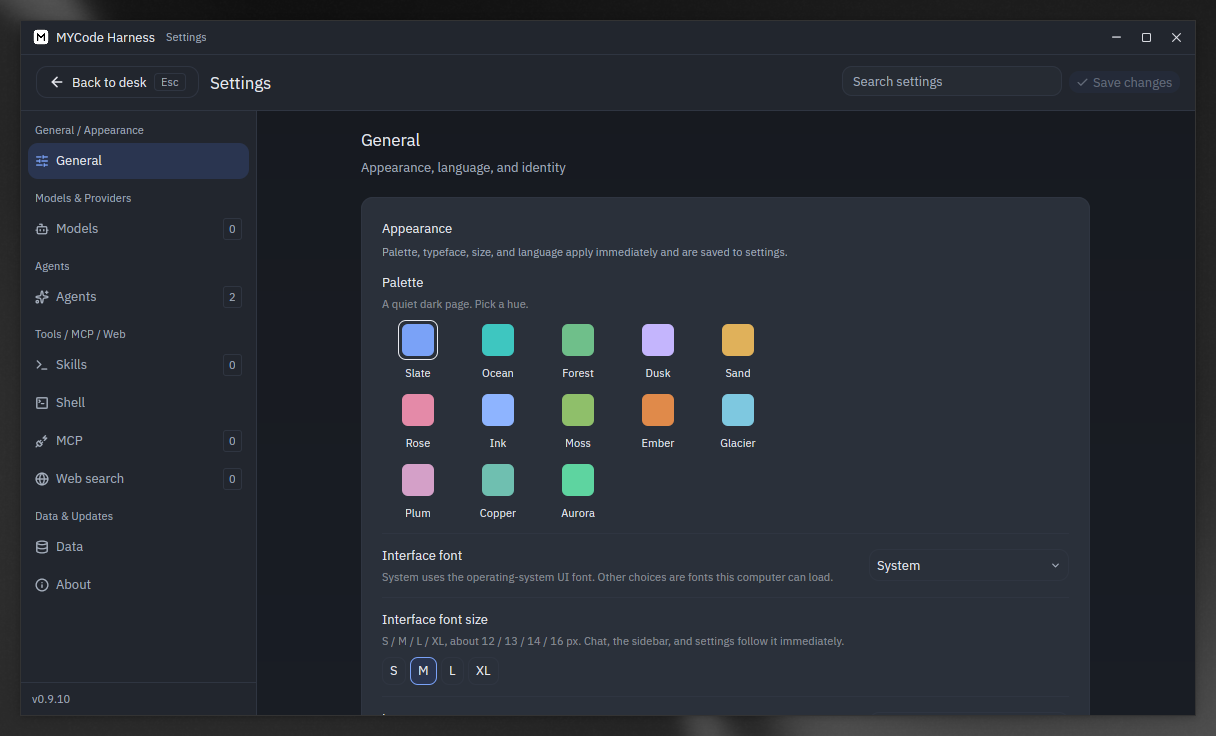
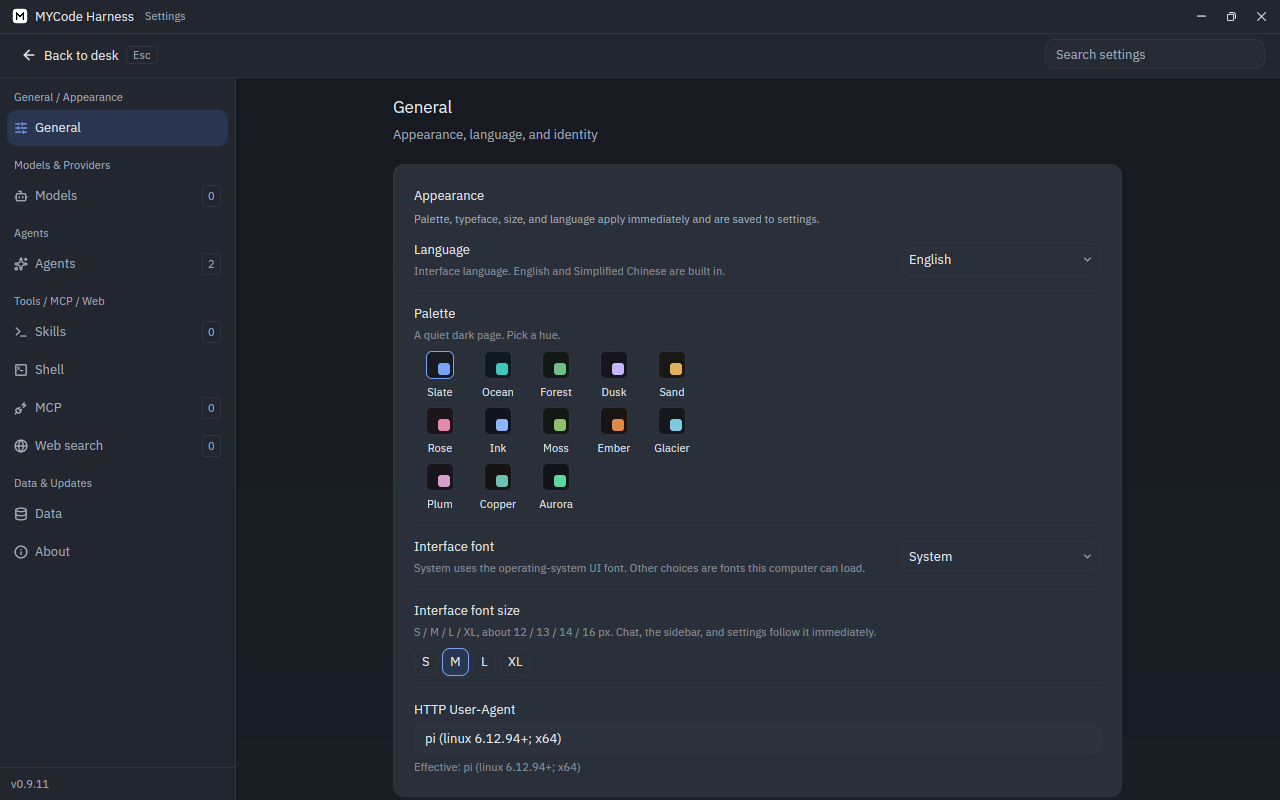
docs(readme): replace screenshots with v0.9.11 captures (#45)
Copy the launch uploads into docs/images and update the Chinese and English captions that still said the shots were v0.9.10.

diff --git a/README.md b/README.md
@@ -20,9 +20,9 @@ English notes are [below](#english).
 
 ## 界面
 
-v0.9.10。标题栏由客户端绘制。没有打开工作区时，空工作台只有「打开目录」。
+v0.9.11。标题栏由客户端绘制。没有打开工作区时，空工作台只有「打开目录」。
 
-![主窗口：v0.9.10，CSD 标题栏，空工作台只有打开目录](docs/images/readme-main.png)
+![主窗口：v0.9.11，CSD 标题栏，空工作台只有打开目录](docs/images/readme-main.png)
 
 外观页：色板、界面字体、界面字号 S–XL。
 
@@ -138,9 +138,9 @@ a lock in Settings.
 
 ### Screenshots
 
-v0.9.10. The title bar is client-side (CSD). With no workspace open, the empty desk offers Open folder.
+v0.9.11. The title bar is client-side (CSD). With no workspace open, the empty desk offers Open folder.
 
-![Main window: v0.9.10, CSD title bar, empty desk with Open folder](docs/images/readme-main.png)
+![Main window: v0.9.11, CSD title bar, empty desk with Open folder](docs/images/readme-main.png)
 
 Appearance: palette, Interface font, and S–XL.
 
